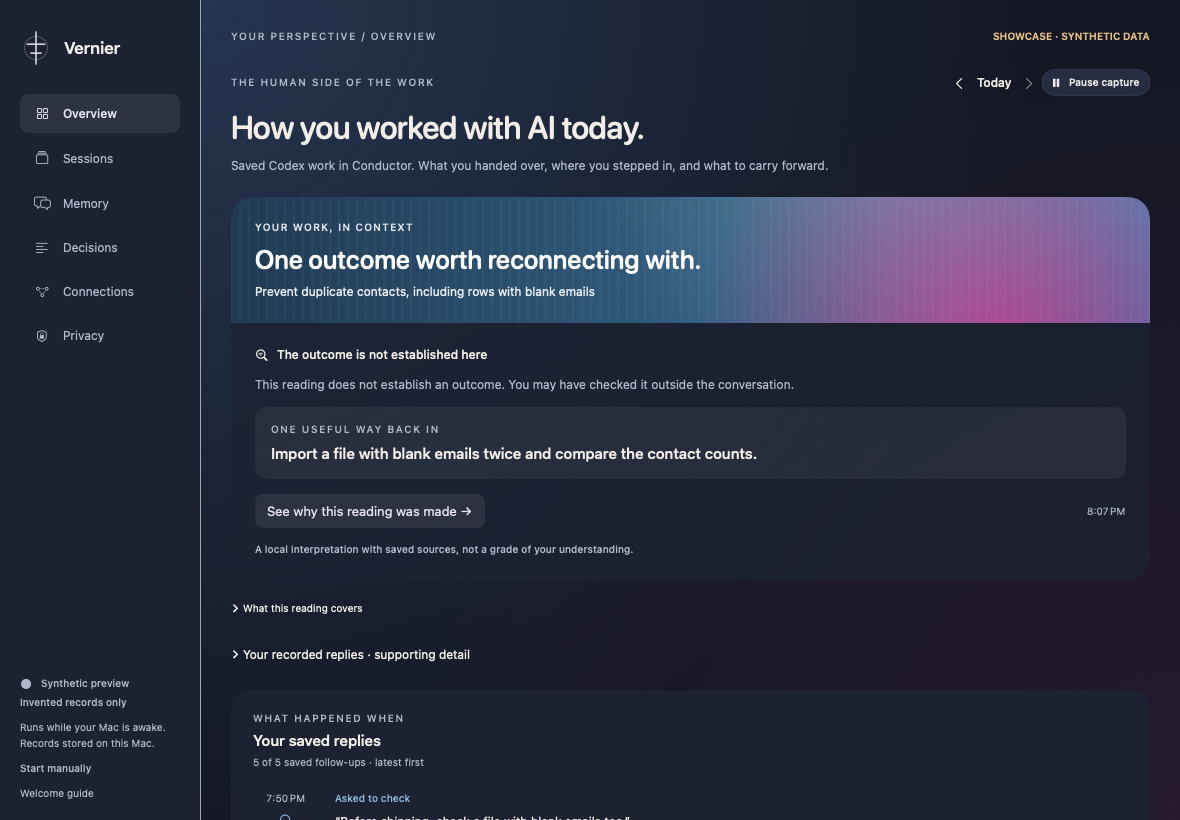
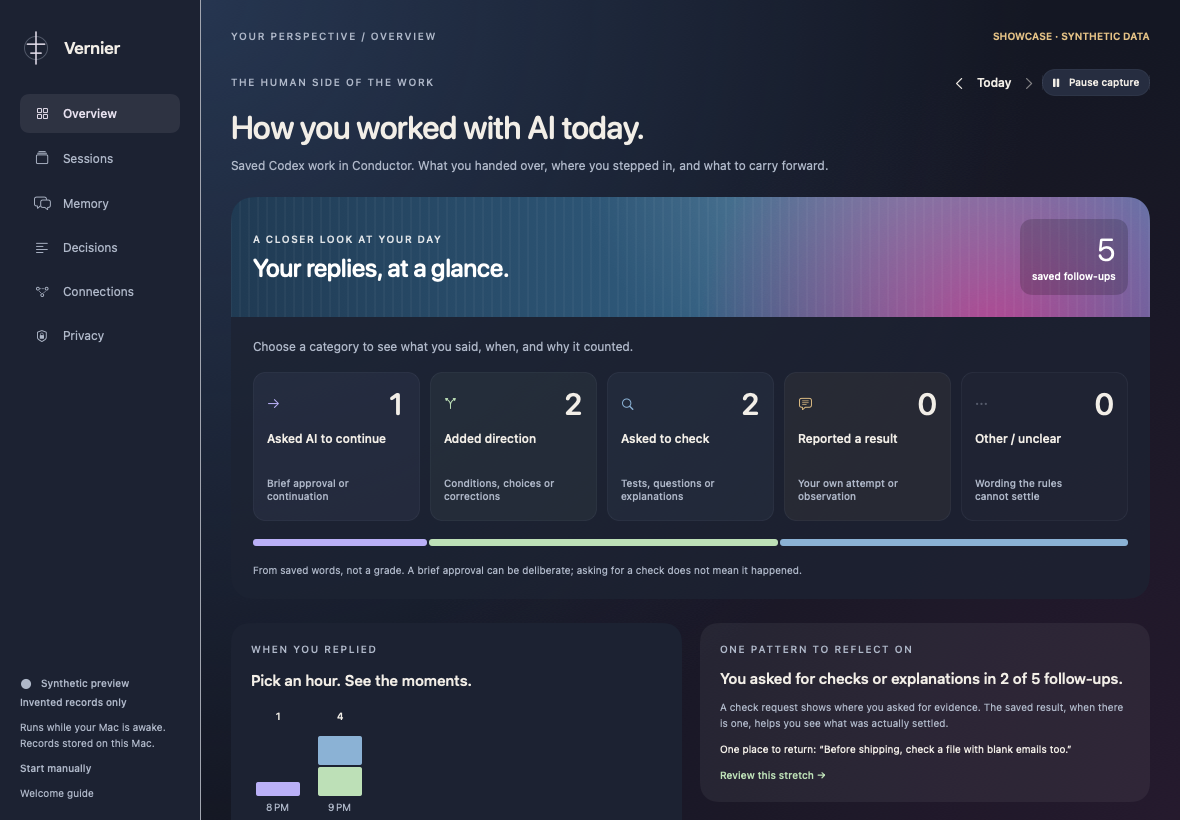
Restore the visible daily overview alongside contextual reasoning

diff --git a/Sources/VernierApp/UI/DailyView.swift b/Sources/VernierApp/UI/DailyView.swift
@@ -28,18 +28,15 @@ struct DailyOverviewView: View {
                     Button("Open local review settings") { model.dailyConversationExpanded = true }.buttonStyle(QuietButtonStyle())
                 }
             } else if let day = model.dailyReport {
+                if day.followUps > 0 {
+                    DailySummaryCard(model: model, report: day)
+                    HStack(alignment: .top, spacing: 18) {
+                        DailyRhythmView(model: model, report: day).frame(maxWidth: .infinity)
+                        DailyPatternCard(model: model, report: day).frame(maxWidth: .infinity)
+                    }
+                }
                 DailyContextView(model: model)
                 if day.followUps > 0 {
-                    DisclosureGroup("Your recorded replies · supporting detail") {
-                        VStack(alignment: .leading, spacing: 18) {
-                            DailySummaryCard(model: model, report: day)
-                            HStack(alignment: .top, spacing: 18) {
-                                DailyRhythmView(model: model, report: day).frame(maxWidth: .infinity)
-                                DailyPatternCard(model: model, report: day).frame(maxWidth: .infinity)
-                            }
-                        }.padding(.top, 14)
-                    }
-                    .font(.callout)
                     DailyEvidenceView(model: model, report: day).id("daily-breakdown")
                     DailyProjectsView(model: model, report: day)
                 } else {

diff --git a/Sources/VernierApp/App/ShowcaseRender.swift b/Sources/VernierApp/App/ShowcaseRender.swift
@@ -10,6 +10,7 @@ extension AppCoordinator {
         try FileManager.default.createDirectory(at: directory, withIntermediateDirectories: true)
         await model.loadDailyParticipation()
         try await snapshot(AnyView(StudioView(model: model)), size: NSSize(width: 1180, height: 820), file: directory.appendingPathComponent("overview.png"))
+        try await snapshot(AnyView(StudioView(model: model)), size: NSSize(width: 1180, height: 1600), file: directory.appendingPathComponent("overview-full.png"))
         try await snapshot(AnyView(StudioView(model: model)), size: NSSize(width: 860, height: 760), file: directory.appendingPathComponent("overview-narrow.png"))
         try await snapshot(AnyView(StudioView(model: model)), size: NSSize(width: 1180, height: 820), file: directory.appendingPathComponent("overview-light.png"), dark: false)
         try await snapshot(AnyView(MenuBarView(model: model)), size: NSSize(width: 382, height: 414), file: directory.appendingPathComponent("quick-view.png"))

diff --git a/Docs/DAILY_RECAP.md b/Docs/DAILY_RECAP.md
@@ -1,8 +1,8 @@
 # A useful way back into your work
 
-The dashboard, compact panel and expanded pill now lead with a contextual reading when a current one is available: **what you were trying to achieve, what kind of result is in the record, and one useful next step**. For example, an AI saying the project builds does not establish that a double import avoids duplicates. The next step can connect that build to the original interaction, rather than asking for more prompts generally.
+The dashboard opens with the visual overview: category cards, the hourly chart and a reflection panel, all visible without expanding a section. Selecting a category or hour opens its matching evidence. A contextual reading follows beneath that overview; the compact panel and expanded pill retain their focused reading when one is available: **what you were trying to achieve, what kind of result is in the record, and one useful next step**. For example, an AI saying the project builds does not establish that a double import avoids duplicates. The next step can connect that build to the original interaction, rather than asking for more prompts generally.
 
-The compact card opens its exact reading and sources; its footer opens the full recap. Other active conversations are available in the dashboard. Today's changed sources withhold old readings until reconsidered. A missing model reading falls back to saved exchanges and an explicit unavailable state, rather than inventing a takeaway. The reply breakdown and hour chart are supporting detail, not the primary judgment.
+The compact card opens its exact reading and sources; its footer opens the full recap. Other active conversations are available in the dashboard. Today's changed sources withhold old readings until reconsidered. A missing model reading falls back to saved exchanges and an explicit unavailable state, rather than inventing a takeaway. The visible breakdown describes the recorded words; the contextual reading adds a likely goal and checkpoint. Neither is a judgment of thought or capability.
 
 A day uses up to 200 saved readings created that day, latest per active conversation. It is not all tasks or all work done. An old day shows interpretations saved then, not a retrospective model reconstruction. With no current reading and few new replies, the compact panel can retain yesterday's fuller recap; it names that date and opens that date. A fresh reading of delegated work can take priority even without a human follow-up. [Source and model boundaries](REASONING.md).
 

diff --git a/README.md b/README.md
@@ -15,9 +15,9 @@ Today, the experimental Mac app gathers consented **Codex history from Conductor
 
 The broader question is **human agency in AI-mediated work**: when does delegation expand what you can do, and what remains within your ability to understand, redirect and recover?
 
-**Current version: 0.13.0.** The compact recap and dashboard prioritize the same contextual reading across active conversations, rather than repeating a continuation count. Press **⌃⌥⌘V**, or reopen the app icon, for the compact view; open the full dashboard from its footer. The compact surface dismisses when you return to another app. This is an experimental local reader, not a measure of cognitive strain, comprehension or tasks delegated. Connected task histories and independent capability assessments remain planned. [Daily recap](Docs/DAILY_RECAP.md) · [Reasoning and evidence](Docs/REASONING.md) · [Research choices](Docs/RESEARCH.md).
+**Current version: 0.13.1.** The dashboard opens with visible category cards, an hourly chart and a reflection panel. A contextual reading follows with a goal, reported outcome and checkpoint; the compact recap stays focused on that reading. Press **⌃⌥⌘V**, or reopen the app icon, for the compact view; open the full dashboard from its footer. The compact surface dismisses when you return to another app. This is an experimental local reader, not a measure of cognitive strain, comprehension or tasks delegated. Connected task histories and independent capability assessments remain planned. [Daily recap](Docs/DAILY_RECAP.md) · [Reasoning and evidence](Docs/REASONING.md) · [Research choices](Docs/RESEARCH.md).
 
-![An invented goal, open outcome and specific checkpoint](Docs/images/overview.png)
+![An invented visual overview with category cards and an hourly chart](Docs/images/overview.png)
 
 *Native components rendered offscreen from invented records. The reading is hand-authored and source-checked; it illustrates presentation, not model accuracy or measured human understanding.*
 

diff --git a/Docs/RELEASE.md b/Docs/RELEASE.md
@@ -1,4 +1,4 @@
-# Source release — 0.13.0
+# Source release — 0.13.1
 
 Vernier is an experimental native Mac app and working project name. This repository publishes source, synthetic showcase data, tests and documentation under MIT. There is no production, notarized binary release yet.
 
@@ -56,3 +56,6 @@ While using the Mac for other work, run `./Scripts/verify-background.sh` for iso
 
 
 - **0.13.0:** contextual outcomes lead the daily dashboard, compact recap and pill. The `work-12` prompt reconstructs goals and checkpoints; host checks separate build-only, agent-reported and human-reported results from unestablished outcomes. Latest-per-conversation selection respects source freshness, historical creation dates and erasure. Wording counts remain supporting detail. Limited English rules and the same-model critic can still misread context or withhold useful readings; no cognitive-health score, weight editing or capability assessment is implemented. Schema v6, capture permissions, provider and automatic cadence are unchanged.
+
+
+- **0.13.1:** restores the dashboard's category cards, hourly chart and reflection panel as visible sections. The new contextual reading sits below them rather than hiding the visual overview. Category/hour evidence actions and the compact reading remain intact. No model, capture or schema change.

diff --git a/Docs/VALIDATION.md b/Docs/VALIDATION.md
@@ -1,3 +1,9 @@
+# Visible visual overview — 0.13.1
+
+Background verification passed **34 shared core groups and 65 isolated app-state checks**. Invented offscreen previews at wide and narrow dashboard sizes show the category cards and hourly/reflection panels visible by default; a tall preview also shows the contextual reading beneath them. Existing checks cover category/hour evidence navigation. No foreground input, personal records or model inference was used for this layout correction; the reasoning protocol is unchanged.
+
+---
+
 # Outcome readings and contextual recap — 0.13
 
 The release background run passed **34 shared core groups and 65 isolated app-state checks**, built and signed the native app, and rendered invented dashboard (wide/narrow), compact, production-popover and pill views offscreen. No visible/key test windows or app activation occurred. Local XCTest was skipped because only Command Line Tools are selected; CI runs it with Xcode. No interactive mouse, physical shortcut, focus or live-ingestion behavior was exercised on the owner's active desktop.

diff --git a/Docs/REASONING.md b/Docs/REASONING.md
@@ -1,3 +1,9 @@
+# Keep the visual overview — 0.13.1
+
+The dashboard again shows the category cards, hourly chart and reflection panel immediately. The contextual reading follows those visual sections, adding the goal, reported evidence and checkpoint. They are complementary ways into the same saved work; the compact recap keeps its focused reading. This restores information access without changing the model prompt, evidence classification, selection, capture or database schema described below.
+
+---
+
 # Outcomes before activity counts — 0.13
 
 The daily view now promotes a useful contextual reading over reply totals. It connects a likely goal, the kind of outcome evidence actually cited and one concrete way back into the work. The compact panel and expanded pill use the same selected reading. Reply counts and the active-hour chart remain supporting evidence under a disclosure. None is a percentage of tasks delegated or thought used.
